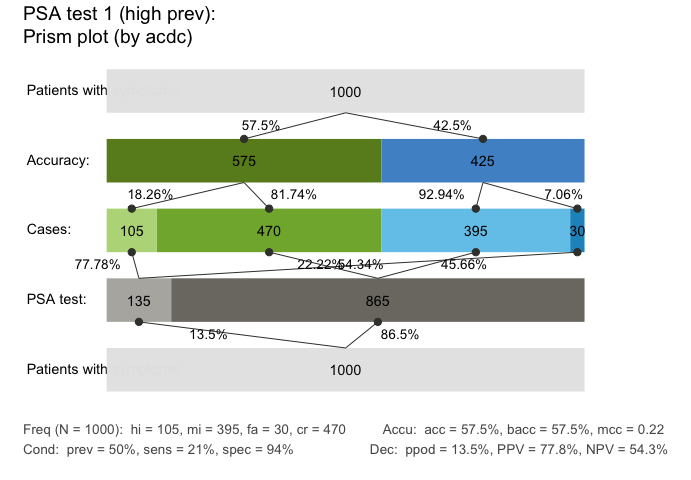
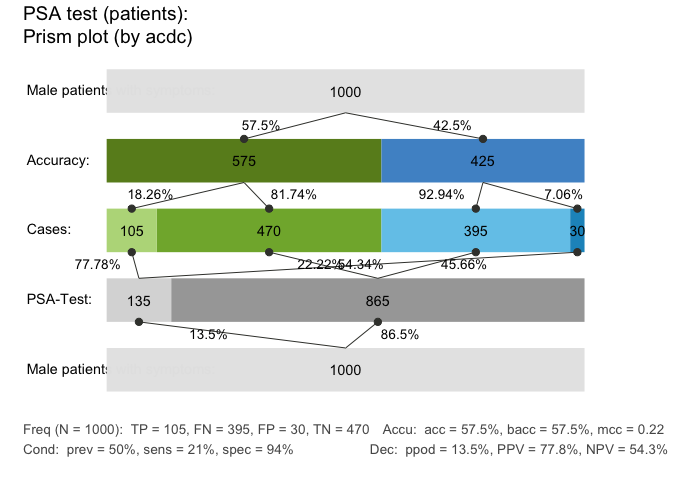
update to new list of scenarios

diff --git a/README.md b/README.md
@@ -285,33 +285,33 @@ plot(hustosis, type = "bar",   dir = 2)
 <!-- 2: Loading and using pre-defined scenarios -->
 ### Using existing scenarios
 
-As defining your own scenarios can be cumbersome and the literature is full of risk-related problems (often referred to as "Bayesian reasoning"), `riskyr` provides a set of — currently 25 — pre-defined scenarios (stored in a list `scenarios`). Here, we provide an example that shows how you can select and explore them.
+As defining your own scenarios can be cumbersome and the literature is full of risk-related problems (often referred to as "Bayesian reasoning"), `riskyr` provides a set of — currently 24 — pre-defined scenarios (stored in a list `scenarios`). Here, we provide an example that shows how you can select and explore them.
 
 #### Selecting a scenario
 
-Let us assume you want to learn more about the controversy surrounding screening prodecures of prostate-cancer (known as PSA screening). Scenario 21 in our collection of `scenarios` is from an article on this topic (Arkes & Gaissmaier, 2012). To select a particular scenario, simply assign it to an R object. For instance, we can assign Scenario 21 to `s21`:
+Let us assume you want to learn more about the controversy surrounding screening prodecures of prostate-cancer (known as PSA screening). Scenario 10 in our collection of `scenarios` is from an article on this topic (Arkes & Gaissmaier, 2012). To select a particular scenario, simply assign it to an R object. For instance, we can assign Scenario 10 to `s10`:
 
 ``` r
-s21 <- scenarios$n21  # assign pre-defined Scenario 21 to s21
+s10 <- scenarios$n10  # assign pre-defined Scenario 10 to s10
 ```
 
 #### Scenario summary
 
-Our selected scenario object `s21` is a list with 29 elements, which describe it in both text and numeric variables. The following commands provide an overview of `s21` in text form:
+Our selected scenario object `s10` is a list with 29 elements, which describe it in both text and numeric variables. The following commands provide an overview of `s10` in text form:
 
 ``` r
-s21$scen_lbl   # a descriptive label
-#> [1] "PSA test 1 (high prev)"
-s21$cond_lbl   # the current condition
-#> [1] "prostate cancer"
-s21$dec_lbl    # the current decision
-#> [1] "PSA test"
-s21$popu_lbl   # the current population
-#> [1] "Patients with symptoms"
-s21$scen_apa   # scenario source (APA) 
+s10$scen_lbl   # a descriptive label
+#> [1] "PSA test (patients)"
+s10$cond_lbl   # the current condition
+#> [1] "Prostate cancer"
+s10$dec_lbl    # the current decision
+#> [1] "PSA-Test"
+s10$popu_lbl   # the current population
+#> [1] "Male patients with symptoms"
+s10$scen_apa   # scenario source (APA) 
 #> [1] "Arkes, H. R., & Gaissmaier, W. (2012). Psychological research and the prostate-cancer screening controversy. Psychological Science, 23(6), 547--553."
 
-# summary(s21) # summarises a scenario
+# summary(s10) # summarises a scenario
 ```
 
 Generating some `riskyr` plots allows a quick visual exploration of the scenario. We only illustrate some selected plots and options here, and trust that you will play with and explore the rest for yourself.
@@ -321,7 +321,7 @@ Generating some `riskyr` plots allows a quick visual exploration of the scenario
 A tree diagram is a prism plot that views the population from only one perspective, but provides a quick overview. In the following plot, the boxes are depicted as squares with area sizes that are scaled by relative frequencies (using the `area = "sq"` argument):
 
 ``` r
-plot(s21, type = "tree", by = "cd", area = "sq",  # tree/prism plot with scaled squares 
+plot(s10, type = "tree", by = "cd", area = "sq",  # tree/prism plot with scaled squares 
      f_lbl = "def", f_lbl_sep = ":\n")            # custom frequency labels 
 ```
 
@@ -330,7 +330,7 @@ plot(s21, type = "tree", by = "cd", area = "sq",  # tree/prism plot with scaled 
 The prism plot (or network diagram) combines 2 tree diagrams to simultaneously provide two perspectives on a population (see Wassner et al., 2004). `riskyr` provides several variants of prism plots. To avoid redundancy to the previous tree diagram, the following version splits the population by accuracy and by decision (see the `by = "acdc"` argument). In addition, the frequencies are represented as horizontal rectangles (`area = "hr"`) so that their relative width reflect the number of people in the corresponding subgroup:
 
 ``` r
-plot(s21, type = "prism", by = "acdc", area = "hr",  # prism plot with horizontal rectangles
+plot(s10, type = "prism", by = "acdc", area = "hr",  # prism plot with horizontal rectangles
      p_lbl = "num")                                  # numeric probability labels
 ```
 
@@ -339,21 +339,21 @@ plot(s21, type = "prism", by = "acdc", area = "hr",  # prism plot with horizonta
 #### Icon array
 
 ``` r
-plot(s21, type = "icons", arr_type = "shuffled")   # plot a shuffled icon array 
+plot(s10, type = "icons", arr_type = "shuffled")   # plot a shuffled icon array 
 ```
 
 <!-- ![](inst/pix/README-ex2_icons-1.png) -->
 #### Area plot
 
 ``` r
-plot(s21, type = "area", p_split = "v", p_lbl = "def")  # plot an area/mosaic plot (with probabilities) 
+plot(s10, type = "area", p_split = "v", p_lbl = "def")  # plot an area/mosaic plot (with probabilities) 
 ```
 
 <!-- ![](inst/pix/README-ex2_area-1.png) -->
 #### Table plot
 
 ``` r
-plot(s21, type = "tab", p_split = "h", p_lbl = "def")  # plot a 2x2 table (with probabilities)
+plot(s10, type = "tab", p_split = "h", p_lbl = "def")  # plot a 2x2 table (with probabilities)
 ```
 
 <!-- ![](inst/pix/README-ex2_tab-1.png) -->
@@ -362,7 +362,7 @@ plot(s21, type = "tab", p_split = "h", p_lbl = "def")  # plot a 2x2 table (with 
 The following curves show the values of several conditional probabilities as a function of prevalence:
 
 ``` r
-plot(s21, type = "curve", what = "all", uc = .05)  # plot all curves (by prev):
+plot(s10, type = "curve", what = "all", uc = .05)  # plot all curves (by prev):
 ```
 
 <!-- ![Probability curves (with uncertainty)](inst/pix/README-ex2_curve-1.png) -->
@@ -373,7 +373,7 @@ Adding the argument `what = "all"` also shows the proportion of positive decisio
 The following surface shows the negative predictive value (NPV) as a function of sensitivity and specificity (for a given prevalence):
 
 ``` r
-plot(s21, type = "plane", what = "NPV")  # plot plane (as a function of sens x spec):
+plot(s10, type = "plane", what = "NPV")  # plot plane (as a function of sens x spec):
 ```
 
 <!-- ![Probability plane (NPV)](inst/pix/README-ex2_plane-1.png) -->
